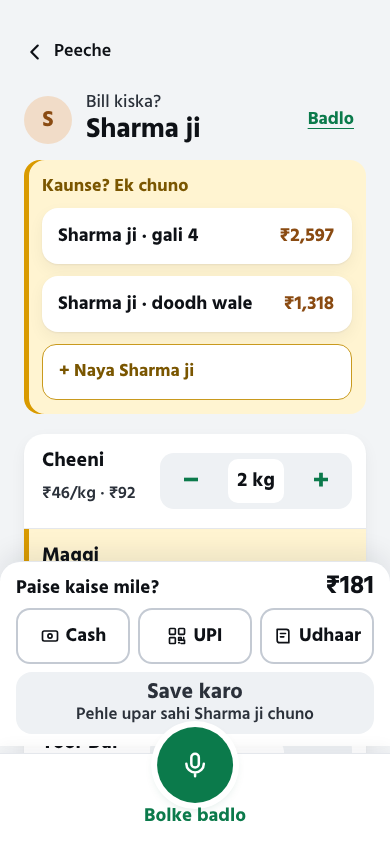
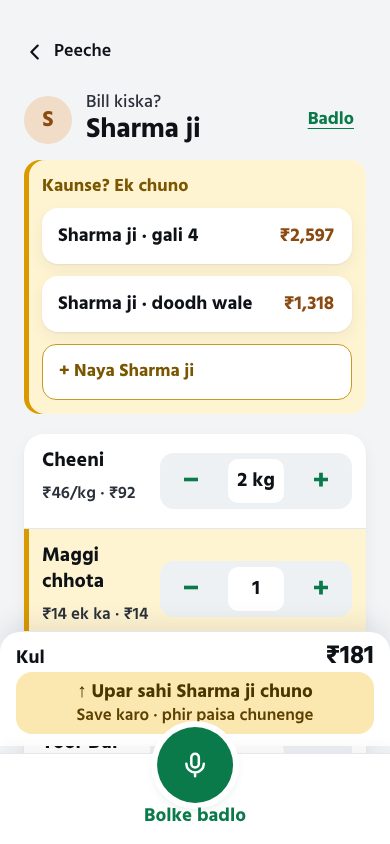
Bill dock: items first (payment tiles appear once questions are answered), tappable yellow reason with ↑
Claude-Session: https://claude.ai/code/session_01Dc9KGnrAUXnUwkJ5n5yUhd

Changed region(s): [[0.0308, 0.6469, 0.9846, 0.8934]]

diff --git a/app/src/lib/i18n.tsx b/app/src/lib/i18n.tsx
@@ -180,7 +180,8 @@ const S = {
   svKhata: { hinglish: '{name} ka khata ab {x}', hi: '{name} का खाता अब {x}', en: 'Khata of {name} is now {x}' },
   svUndoNote: { hinglish: 'Galti ho gayi? Agla bill banane tak wapas le sakte hain.', hi: 'गलती हो गई? अगला बिल बनाने तक वापस ले सकते हैं।', en: 'Made a mistake? You can take it back until the next bill.' },
   svUndo: { hinglish: 'Bill wapas lo', hi: 'बिल वापस लो', en: 'Take bill back' },
-  pickCustFirst: { hinglish: 'Pehle upar sahi {name} chuno', hi: 'पहले ऊपर सही {name} चुनें', en: 'First pick the right {name} above' },
+  pickCustFirst: { hinglish: 'Upar sahi {name} chuno', hi: 'ऊपर सही {name} चुनें', en: 'Pick the right {name} above' },
+  dkAfter: { hinglish: 'phir paisa chunenge', hi: 'फिर पैसा चुनेंगे', en: 'then choose payment' },
   pinLocked: { hinglish: 'Bahut baar galat PIN. {m} minute baad dobara koshish karo.', hi: 'बहुत बार गलत PIN। {m} मिनट बाद दोबारा कोशिश करें।', en: 'Too many wrong PINs. Try again in {m} minutes.' },
   triesLeft: { hinglish: 'Bas {n} koshish bachi.', hi: 'बस {n} कोशिश बची।', en: 'Only {n} tries left.' },
   phones: { hinglish: 'Kin phones mein khula hai', hi: 'किन फ़ोन में खुला है', en: 'Phones logged in' },
@@ -276,7 +277,7 @@ const S = {
   udhaarTotal: { hinglish: 'ka kul udhaar', hi: 'का कुल उधार', en: 'total udhaar' },
   discount: { hinglish: 'Chhoot (discount)', hi: 'छूट (डिस्काउंट)', en: 'Discount' },
   total: { hinglish: 'Kul', hi: 'कुल', en: 'Total' },
-  answerFirst: { hinglish: 'pehle "Haan" dabao', hi: 'पहले "हाँ" दबाओ', en: 'tap "Yes" first' },
+  answerFirst: { hinglish: 'Upar peela item pakka karo', hi: 'ऊपर पीला आइटम पक्का करें', en: 'Confirm the yellow item above' },
   priceFirst: { hinglish: 'Pehle daam likho', hi: 'पहले दाम लिखो', en: 'Enter the price first' },
   fixFirst: { hinglish: 'Pehle peeli line theek karo', hi: 'पहले पीली लाइन ठीक करो', en: 'Fix the yellow line first' },
   saveBill: { hinglish: 'Save karo', hi: 'सेव करो', en: 'Save' },

diff --git a/app/src/screens/Voice.tsx b/app/src/screens/Voice.tsx
@@ -262,7 +262,7 @@ function ReviewScreen({ draft, setDraft, shop, isBill, ready, total, udhaarBlock
     : draft.pay === 'upi' ? t('dkUpi').replace('{x}', rupees(net)) : t('dkCash').replace('{x}', rupees(net))
   const fixFirst = () => (document.querySelector('.it.u') ?? document.querySelector('.pricebtn'))?.scrollIntoView({ behavior: 'smooth', block: 'start' })
   const cta = !ready
-    ? <Tap className="btn dk-wait" onClick={fixFirst}><span>{isBill ? t('saveBill') : t('stockAdd')}</span><small>{cap(reason)}</small></Tap>
+    ? <Tap className="btn dk-wait dk-todo" onClick={fixFirst}><small>↑ {cap(reason)}</small><span className="dk-sub">{isBill ? t('saveBill') : t('stockAdd')} · {t('dkAfter')}</span></Tap>
     : udhaarBlocked
       ? <Tap className="btn dk-wait" onClick={() => setCustOpen(true)}><span>{t('saveBill')}</span><small>{t('udhaarNeedsName')}</small></Tap>
       : isBill && !draft.pay
@@ -273,15 +273,15 @@ function ReviewScreen({ draft, setDraft, shop, isBill, ready, total, udhaarBlock
           </Tap>
   const dock = isBill ? (
     <div className="paydock">
-      <div className="dk-head"><b>{t('howPaid')}</b><b className="num">{rupees(net)}</b></div>
-      <div className="dk-tiles">
+      <div className="dk-head"><b>{ready ? t('howPaid') : t('total')}</b><b className="num">{rupees(net)}</b></div>
+      {ready && <div className="dk-tiles">
         {(['cash', 'upi', 'udhaar'] as const).map((p) => (
           <Tap key={p} className={`dk-tile ${draft.pay === p ? (p === 'udhaar' ? 'onu' : 'on') : ''}`} aria-pressed={draft.pay === p}
             onClick={() => { setDraft({ ...draft, pay: p }); if (p === 'upi') setUpiOpen(true) }}>
             {draft.pay === p ? <Icon name="tick" size={20} stroke={3} /> : <Icon name={p === 'cash' ? 'cash' : p === 'upi' ? 'qr' : 'book'} size={20} />}{t(p)}
           </Tap>
         ))}
-      </div>
+      </div>}
       {cta}
     </div>
   ) : <div className="flowact">{cta}</div>

diff --git a/app/src/styles/app.css b/app/src/styles/app.css
@@ -299,3 +299,6 @@ input{caret-color:var(--ac)}
 .sv-undo{margin-top:20px;padding:14px 16px;border-radius:16px;background:var(--s2)}.sv-undo p{font-size:19px;font-weight:600;margin-bottom:10px}
 .top:empty{height:12px;margin:0}
 .btn.sv-wa{text-align:center;line-height:24px}
+.btn.dk-todo{background:#FBE7B0;color:#4A3500}
+.btn.dk-todo small{font-size:19px;font-weight:700;line-height:24px}
+.btn.dk-todo .dk-sub{font-size:17px;font-weight:600;color:#5C4000}
